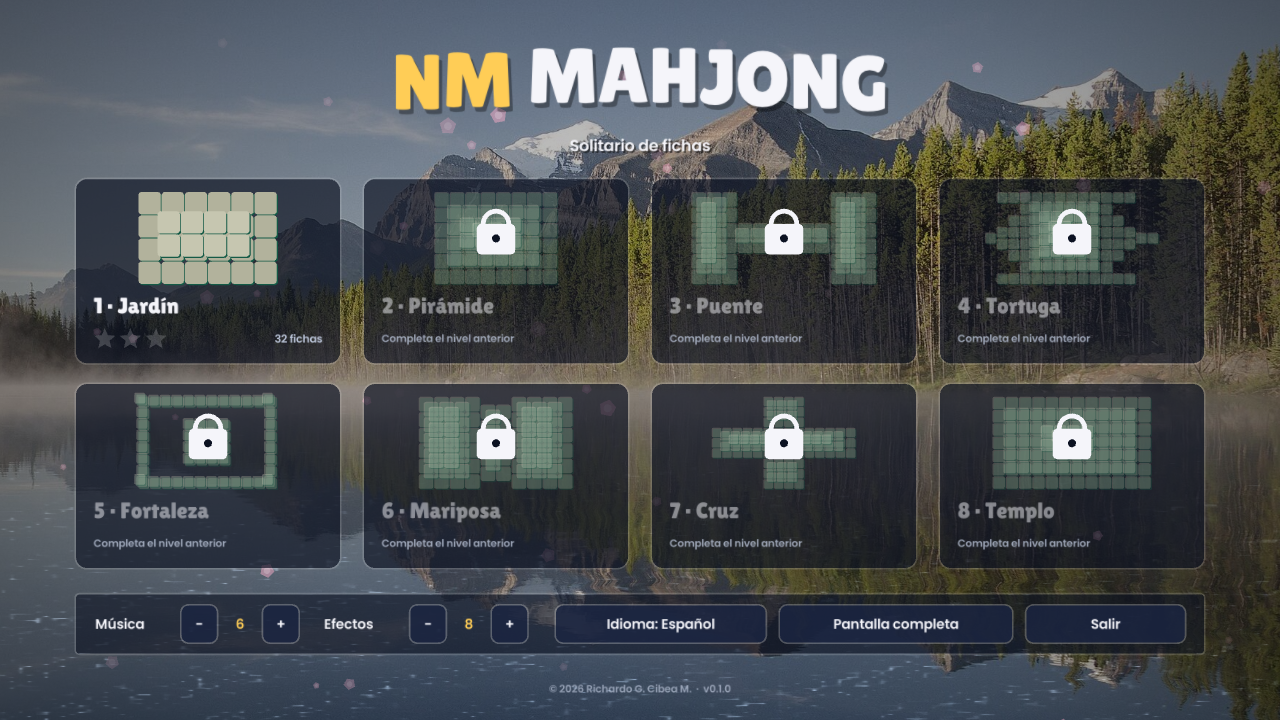
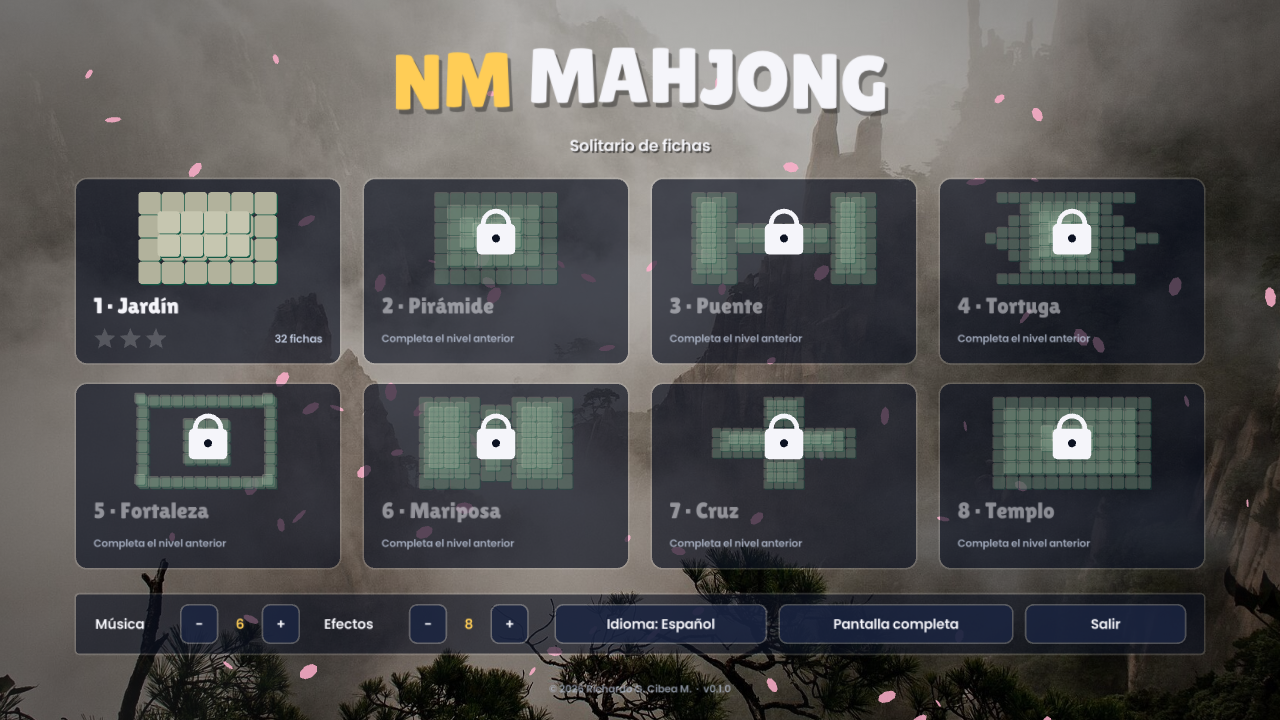
Fondos con paisajes de China
Se sustituyen las fotografías por paisajes chinos de Wikimedia Commons
(CC0 y CC BY): Huangshan, jardín de Suzhou, Templo del Cielo,
Zhouzhuang, Jiuzhaigou, Gran Muralla, lotos, terrazas de Longji y
Ciudad Prohibida, con la niebla y lo que flota ajustados a cada uno.
Se actualizan los créditos de los autores, las capturas, el README y
las notas de versión. El modo de capturas puede guardar una secuencia
de fotogramas.

diff --git a/src/game/Themes.cpp b/src/game/Themes.cpp
@@ -10,19 +10,24 @@ namespace {
 constexpr Color kPetal = {255, 176, 204, 255};
 constexpr Color kGoldDust = {255, 214, 130, 255};
 constexpr Color kFoam = {190, 240, 255, 255};
-constexpr Color kFirefly = {255, 244, 170, 255};
 
-const Theme kMenu = {"menu", {0.05f, 0.07f, 0.16f}, {0.10f, 0.30f, 0.38f}, {0.80f, 0.90f, 1.00f}, 1, 0, 0.5f, MoteKind::Petals, kPetal};
+constexpr Color kBamboo = {176, 214, 120, 255};
+constexpr Color kRiceGold = {240, 214, 120, 255};
+
+// foto, paleta (a, b: fondo de reserva; c: tinte de niebla y luz), animación,
+// música, niebla, qué flota y de qué color.
+const Theme kMenu = {"menu", {0.05f, 0.07f, 0.16f}, {0.10f, 0.30f, 0.38f}, {0.92f, 0.95f, 1.00f}, 3, 0,
+                     0.95f, MoteKind::Petals, kPetal};
 
 const Theme kLevels[] = {
-    {"jardin", {0.10f, 0.26f, 0.22f}, {0.42f, 0.66f, 0.62f}, {0.90f, 1.00f, 0.85f}, 1, 0, 0.5f, MoteKind::Petals, kPetal},
-    {"piramide", {0.36f, 0.16f, 0.14f}, {0.86f, 0.52f, 0.30f}, {1.00f, 0.86f, 0.62f}, 3, 3, 0.5f, MoteKind::Dust, kGoldDust},
-    {"puente", {0.02f, 0.16f, 0.28f}, {0.05f, 0.38f, 0.48f}, {1.00f, 0.95f, 0.80f}, 1, 2, 0.5f, MoteKind::Dust, kFoam},
-    {"tortuga", {0.02f, 0.20f, 0.16f}, {0.08f, 0.42f, 0.34f}, {0.85f, 1.00f, 1.00f}, 1, 0, 0.5f, MoteKind::Dust, kFoam},
-    {"fortaleza", {0.03f, 0.03f, 0.10f}, {0.12f, 0.08f, 0.28f}, {0.92f, 0.95f, 1.00f}, 3, 1, 0.5f, MoteKind::Fireflies, kFirefly},
-    {"mariposa", {0.16f, 0.05f, 0.20f}, {0.50f, 0.16f, 0.42f}, {0.95f, 0.88f, 1.00f}, 3, 3, 0.5f, MoteKind::Petals, kPetal},
-    {"cruz", {0.02f, 0.08f, 0.14f}, {0.05f, 0.36f, 0.40f}, {0.40f, 0.95f, 0.70f}, 0, 2, 0.5f, MoteKind::Dust, kFoam},
-    {"templo", {0.08f, 0.02f, 0.04f}, {0.32f, 0.06f, 0.10f}, {1.00f, 0.80f, 0.55f}, 1, 1, 0.5f, MoteKind::Dust, kGoldDust},
+    /* Jardín: jardín de Suzhou        */ {"jardin", {0.10f, 0.26f, 0.22f}, {0.42f, 0.66f, 0.62f}, {0.92f, 1.00f, 0.90f}, 1, 0, 0.35f, MoteKind::Petals, kPetal},
+    /* Pirámide: Templo del Cielo      */ {"piramide", {0.36f, 0.16f, 0.14f}, {0.86f, 0.52f, 0.30f}, {1.00f, 0.92f, 0.78f}, 3, 3, 0.30f, MoteKind::Dust, kGoldDust},
+    /* Puente: Zhouzhuang              */ {"puente", {0.02f, 0.16f, 0.28f}, {0.05f, 0.38f, 0.48f}, {1.00f, 0.96f, 0.86f}, 1, 2, 0.30f, MoteKind::Petals, kPetal},
+    /* Tortuga: lago de Jiuzhaigou     */ {"tortuga", {0.02f, 0.20f, 0.16f}, {0.08f, 0.42f, 0.34f}, {0.88f, 1.00f, 1.00f}, 1, 0, 0.50f, MoteKind::Dust, kFoam},
+    /* Fortaleza: Gran Muralla         */ {"fortaleza", {0.03f, 0.03f, 0.10f}, {0.12f, 0.08f, 0.28f}, {1.00f, 0.95f, 0.85f}, 3, 1, 0.60f, MoteKind::Leaves, kBamboo},
+    /* Mariposa: estanque de lotos     */ {"mariposa", {0.16f, 0.05f, 0.20f}, {0.50f, 0.16f, 0.42f}, {1.00f, 0.95f, 0.98f}, 3, 3, 0.25f, MoteKind::Petals, kPetal},
+    /* Cruz: terrazas de arroz         */ {"cruz", {0.02f, 0.08f, 0.14f}, {0.05f, 0.36f, 0.40f}, {1.00f, 0.97f, 0.85f}, 3, 2, 0.75f, MoteKind::Leaves, kRiceGold},
+    /* Templo: Ciudad Prohibida        */ {"templo", {0.08f, 0.02f, 0.04f}, {0.32f, 0.06f, 0.10f}, {1.00f, 0.90f, 0.75f}, 3, 1, 0.30f, MoteKind::Dust, kGoldDust},
 };
 
 }  // namespace

diff --git a/THIRD-PARTY-NOTICES.md b/THIRD-PARTY-NOTICES.md
@@ -6,8 +6,9 @@ componentes de terceros, cada uno bajo su propia licencia.
 NM Mahjong is proprietary software (see `LICENSE`). It uses the third-party
 components below, each under its own license.
 
-Los gráficos de las fichas, los efectos de sonido y la música son originales y
-se generan dentro del propio juego. Las fotografías de los fondos son de
+Los gráficos de las fichas, los efectos de sonido y la música (instrumentos
+chinos sintetizados, sin grabaciones) son originales y se generan dentro del
+propio juego. Las fotografías de los fondos son de
 terceros y se detallan más abajo. · Tile art, sound effects and music are
 original and generated by the game itself. Background photographs are
 third-party works, credited below.
@@ -69,15 +70,15 @@ effects.
 
 | Archivo | Obra original | Autoría | Licencia |
 |---|---|---|---|
-| `menu.jpg` | [Herbert Lake beim Icefields Parkway](https://commons.wikimedia.org/wiki/File:Herbert_Lake_beim_Icefields_Parkway.jpg) | Florian Fuchs | [CC BY 3.0](https://creativecommons.org/licenses/by/3.0) |
-| `jardin.jpg` | [Queenstown Gardens pond from NE end](https://commons.wikimedia.org/wiki/File:Queenstown_Gardens_pond_from_NE_end.jpg) | Bjankuloski06 | [CC BY 4.0](https://creativecommons.org/licenses/by/4.0) |
-| `piramide.jpg` | [Imperial Sand Dunes, Southeastern California](https://commons.wikimedia.org/wiki/File:Imperial_Sand_Dunes2C_Southeastern_California_LCCN2013630449.jpg) | Carol M. Highsmith (Library of Congress) | Dominio público · Public domain |
-| `puente.jpg` | [Pont sur l'Orb, Roquebrun](https://commons.wikimedia.org/wiki/File:Pont_sur_l%27Orb,_Roquebrun.jpg) | Christian Ferrer | [CC BY 4.0](https://creativecommons.org/licenses/by/4.0) |
-| `tortuga.jpg` | [Havelock Island, Mangrove tree on the beach, Andaman Islands](https://commons.wikimedia.org/wiki/File:Havelock_Island,_Mangrove_tree_on_the_beach,_Andaman_Islands.jpg) | © Vyacheslav Argenberg | [CC BY 4.0](https://creativecommons.org/licenses/by/4.0) |
-| `fortaleza.jpg` | [Neuschwanstein Castle 2024-02](https://commons.wikimedia.org/wiki/File:Neuschwanstein_Castle_2024-02.jpg) | Wilfredor | [CC0 1.0](https://creativecommons.org/publicdomain/zero/1.0/) |
-| `mariposa.jpg` | [Île d'Orléans 009](https://commons.wikimedia.org/wiki/File:%C3%8Ele_d%27Orl%C3%A9ans_009.jpg) | Wilfredor | [CC0 1.0](https://creativecommons.org/publicdomain/zero/1.0/) |
-| `cruz.jpg` | [Lofoten, Norway (Unsplash)](https://commons.wikimedia.org/wiki/File:Lofoten,_Norway_(Unsplash).jpg) | Johannes Groll | [CC0 1.0](https://creativecommons.org/publicdomain/zero/1.0/) |
-| `templo.jpg` | [Itsukushima-jinja torii at sunset, Miyajima, Japan](https://commons.wikimedia.org/wiki/File:Itsukushima-jinja_torii_at_sunset,_Miyajima,_Japan,_20240816_1812_4144.jpg) | Jakub Hałun | [CC BY 4.0](https://creativecommons.org/licenses/by/4.0) |
+| `menu.jpg` | [Huangshan pic 6](https://commons.wikimedia.org/wiki/File:Huangshan_pic_6.jpg) — montes Huangshan | eviltomthai | [CC BY 2.0](https://creativecommons.org/licenses/by/2.0) |
+| `jardin.jpg` | [Humble Administrator's Garden Suzhou (2024) - img 01](https://commons.wikimedia.org/wiki/File:Humble_Administrator%27s_Garden_Suzhou_(2024)_-_img_01.jpg) — jardín de Suzhou | Chainwit. | [CC BY 4.0](https://creativecommons.org/licenses/by/4.0) |
+| `piramide.jpg` | [Temple of heaven, Beijing, China - panoramio](https://commons.wikimedia.org/wiki/File:Temple_of_heaven,Beijing,China_-_panoramio.jpg) — Templo del Cielo | Haluk Comertel | [CC BY 3.0](https://creativecommons.org/licenses/by/3.0) |
+| `puente.jpg` | [Zhouzhuang - 55460761390](https://commons.wikimedia.org/wiki/File:Zhouzhuang_-_55460761390.jpg) — Zhouzhuang | xiquinhosilva | [CC BY 4.0](https://creativecommons.org/licenses/by/4.0) |
+| `tortuga.jpg` | [Long Lake (Jiuzhaigou) 20260511-1](https://commons.wikimedia.org/wiki/File:Long_Lake_(Jiuzhaigou)_20260511-1.jpg) — Jiuzhaigou | Suicasmo | [CC0 1.0](https://creativecommons.org/publicdomain/zero/1.0/) |
+| `fortaleza.jpg` | [Great Wall of China at Jinshanling in September 2026 10](https://commons.wikimedia.org/wiki/File:Great_Wall_of_China_at_Jinshanling_in_September_2026_10.jpg) — Gran Muralla | Renek78 | [CC0 1.0](https://creativecommons.org/publicdomain/zero/1.0/) |
+| `mariposa.jpg` | [Lotus Flower (20617483881)](https://commons.wikimedia.org/wiki/File:Lotus_Flower_(20617483881).jpg) — estanque de lotos | Yoshikazu TAKADA | [CC BY 2.0](https://creativecommons.org/licenses/by/2.0) |
+| `cruz.jpg` | [Longji rice terraces - 2023 10 11 Kaur Virunurm](https://commons.wikimedia.org/wiki/File:Longji_rice_terraces_-_2023_10_11_Kaur_Virunurm.jpg) — terrazas de Longji | Kaur Virunurm (Kurinurm) | [CC0 1.0](https://creativecommons.org/publicdomain/zero/1.0/) |
+| `templo.jpg` | [Forbidden City Beijing China4](https://commons.wikimedia.org/wiki/File:Forbidden_City_Beijing_China4.jpg) — Ciudad Prohibida | Philip Nalangan | [CC BY 4.0](https://creativecommons.org/licenses/by/4.0) |
 
 Los archivos están en `assets/backgrounds/`. Las licencias CC BY exigen
 conservar esta atribución; no implican que los autores respalden este juego.

diff --git a/docs/releases/v0.1.0.md b/docs/releases/v0.1.0.md
@@ -13,7 +13,8 @@ Primera versión jugable de NM Mahjong. · First playable version of NM Mahjong.
 - Reparto con solución garantizada en todos los tableros.
 - Pista, deshacer y barajar; aviso cuando no quedan movimientos.
 - Combos al encadenar parejas, puntuación y hasta tres estrellas por nivel.
-- Un paisaje fotográfico animado por nivel (movimiento lento de cámara, bruma, destellos en el agua, aurora) y música ambiental distinta según el nivel.
+- Un paisaje de China por nivel, animado: cámara en movimiento, niebla en dos capas, rayos de luz, agua que ondula y pétalos, hojas o polvo de luz flotando.
+- Música ambiental china (guzheng, dizi y gong) distinta según el nivel.
 - Actualización automática: el menú avisa cuando hay una versión nueva y la instala con un clic.
 - Efectos de partículas al emparejar y confeti al completar un nivel.
 - Juego en español e inglés; por defecto usa el idioma del sistema.
@@ -28,7 +29,7 @@ Primera versión jugable de NM Mahjong. · First playable version of NM Mahjong.
 - Fondos: fotografías JPG de 1920 × 1080 (Wikimedia Commons, CC0/CC BY/dominio público, acreditadas en `THIRD-PARTY-NOTICES.md`) animadas en un shader de fragmentos GLSL 330; si falta la foto se usa un fondo generado. Se activa `SUPPORT_FILEFORMAT_JPG` en raylib.
 - Actualizador: consulta `releases/latest` de GitHub con `curl` del sistema, valida etiqueta y direcciones, comprueba el SHA-256 del paquete, lo prepara en disco y un relevo sustituye la instalación y reinicia. Repositorio configurable con `NM_UPDATE_REPO`.
 - Guiones `scripts/setup.sh` y `scripts/setup.ps1` para preparar y compilar en un equipo recién clonado; guía en `docs/COMPILAR.md`.
-- Música generativa sintetizada en tiempo real (`AudioStream` con callback): colchón, bajo y melodía pentatónica con eco estéreo. Efectos de sonido sintetizados al arrancar. No hay archivos de audio.
+- Música generativa sintetizada en tiempo real (`AudioStream` con callback): guzheng por modelado físico de cuerda pulsada (Karplus-Strong con nota doblada, vibrato y glissandos), dizi aditivo con vibrato y soplo, gong y bordón, sobre los modos gong, yu, shang y zhi, con eco estéreo. Efectos de sonido sintetizados al arrancar. No hay archivos de audio.
 - Lienzo virtual de 1600 × 900 escalado a la ventana; ventana redimensionable y pantalla completa sin bordes (F11).
 - Partida guardada en `~/Library/Application Support/NMMahjong` (macOS) y `%APPDATA%\NMMahjong` (Windows).
 

diff --git a/README.md b/README.md
@@ -14,10 +14,12 @@ avanza por ocho niveles con su propio paisaje y su propia música.
   anterior.
 - **Siempre tiene solución.** Las fichas se reparten de forma que el tablero
   pueda despejarse entero.
-- **Paisajes reales animados**: cada nivel tiene su fotografía —lagos, dunas,
-  playas, auroras, templos— con movimiento lento, bruma y destellos en el agua.
-- **Música ambiental** que nunca se repite igual y cambia de carácter según el
-  nivel.
+- **Paisajes de China animados**: cada nivel tiene su fotografía —la Gran
+  Muralla, los jardines de Suzhou, la Ciudad Prohibida, las terrazas de
+  arroz— con la cámara en movimiento, niebla que cruza, agua que ondula y
+  pétalos que caen.
+- **Música ambiental china**: guzheng, flauta dizi y gong, distinta en cada
+  partida y con otro carácter según el nivel.
 - **Efectos**: destellos al emparejar, combos si encadenas parejas con
   rapidez y confeti al terminar.
 - **Ayudas** cuando las necesites: pista, deshacer y barajar.
@@ -82,10 +84,11 @@ way through eight levels, each with its own scenery and music.
 - **Eight levels** with different shapes, from the small *Garden* to the 144
   tiles of *Turtle* and *Temple*. Clearing a level unlocks the next one.
 - **Always solvable.** Tiles are dealt so the whole board can be cleared.
-- **Real, animated scenery**: every level has its own photograph (lakes,
-  dunes, beaches, auroras, temples) with slow motion, mist and water sparkles.
-- **Ambient music** that never plays the same way twice and changes mood with
-  the level.
+- **Animated Chinese scenery**: every level has its own photograph (the Great
+  Wall, the gardens of Suzhou, the Forbidden City, rice terraces) with a
+  moving camera, drifting mist, rippling water and falling petals.
+- **Chinese ambient music**: guzheng, dizi flute and gong, different every
+  time and changing mood with the level.
 - **Effects**: sparkles on every match, combos when you chain pairs quickly
   and confetti when you finish.
 - **Help** when you need it: hint, undo and shuffle.
